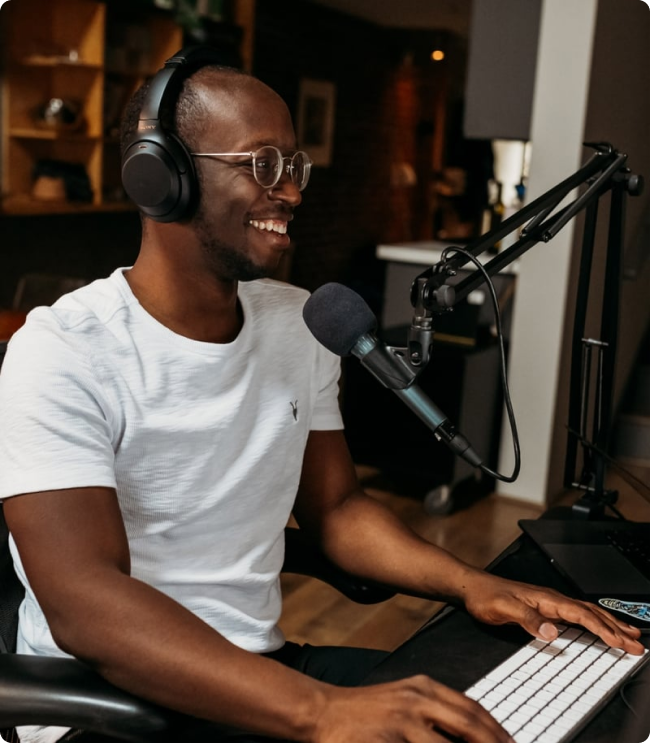
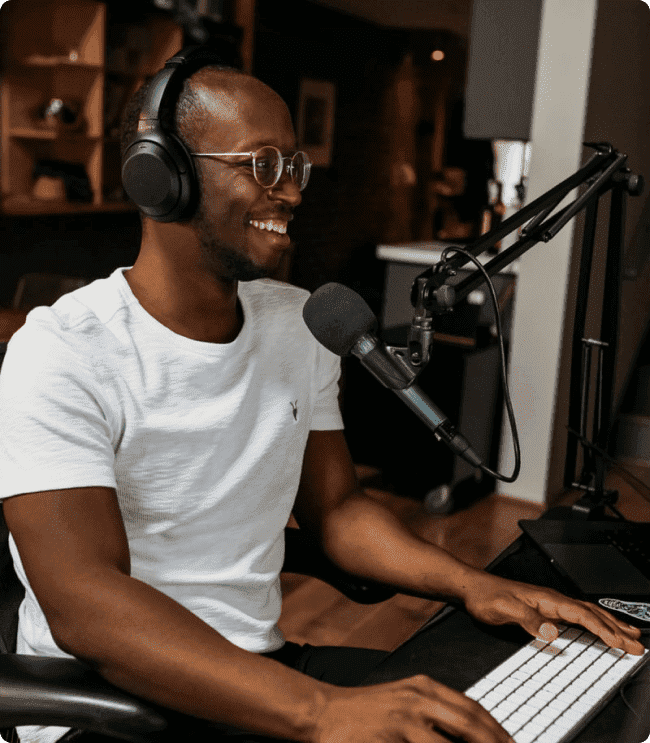
add eslint code style rules, optimize pictures, improve page load speed

diff --git a/src/components/CommentForm/Inputs/Inputs.jsx b/src/components/CommentForm/Inputs/Inputs.jsx
@@ -1,13 +1,13 @@
 import React, {useContext} from 'react'
 // UI components
-import Button from "../../UI/Button/Button"
+import Button from '../../UI/Button/Button'
 // React hook form and yup validation
-import {useForm} from "react-hook-form"
-import {yupResolver} from "@hookform/resolvers/yup"
-import * as yup from "yup"
+import {useForm} from 'react-hook-form'
+import {yupResolver} from '@hookform/resolvers/yup'
+import * as yup from 'yup'
 // Context
-import {StarsContext} from "../../../Helper/Contexts/StarsContext"
-import {CommentsContext} from "../../../Helper/Contexts/CommentsContext"
+import {StarsContext} from '../../../Helper/Contexts/StarsContext'
+import {CommentsContext} from '../../../Helper/Contexts/CommentsContext'
 // Styles
 import './Inputs-styles.scss'
 
@@ -47,7 +47,7 @@ const Inputs = () => {
                 type="number"
                 id={'comment-form__num-inp'}
                 defaultValue={0}
-                style={{opacity: '0', position: "absolute", left: '-100%'}}
+                style={{opacity: '0', position: 'absolute', left: '-100%'}}
             />
             <p className={'comment-form__error2'}>Please rate 1-5 stars</p>
 

diff --git a/src/components/Comments/Comments.jsx b/src/components/Comments/Comments.jsx
@@ -1,13 +1,13 @@
-import React, {useEffect, useContext} from 'react'
+import React, {useContext, useEffect} from 'react'
 // Styles
 import './Comments-styles.scss'
 // Libraries
 import axios from 'axios'
 import {v4 as uuid} from 'uuid'
 // Child components
-import CommentsItem from "./Comments-item"
+import CommentsItem from './Comments-item'
 // Context
-import {CommentsContext} from "../../Helper/Contexts/CommentsContext"
+import {CommentsContext} from '../../Helper/Contexts/CommentsContext'
 
 const Comments = () => {
 
@@ -27,6 +27,7 @@ const Comments = () => {
 
         getComments('https://jsonplaceholder.typicode.com/comments')
             .then(() => console.log('request for comments sent'))
+        // eslint-disable-next-line
     }, [])
 
     // let reverseArray = comments.map((value, index, array) => array[array.length - 1 - index])

diff --git a/src/App.js b/src/App.js
@@ -2,13 +2,13 @@ import React from 'react'
 // Styles
 import './styles/App.scss'
 // Components
-import Header from "./components/Header/Header"
-import Hero from "./components/Hero/Hero"
-import Posts from "./components/Posts/Posts"
-import Bio from "./components/Bio/Bio"
-import Form from "./components/Form/Form"
-import CommentsGeneral from "./components/CommentsGeneral/CommentsGeneral"
-import Footer from "./components/Footer/Footer"
+import Header from './components/Header/Header'
+import Hero from './components/Hero/Hero'
+import Posts from './components/Posts/Posts'
+import Bio from './components/Bio/Bio'
+import Form from './components/Form/Form'
+import CommentsGeneral from './components/CommentsGeneral/CommentsGeneral'
+import Footer from './components/Footer/Footer'
 
 function App() {
 

diff --git a/src/components/Posts/Post-item.jsx b/src/components/Posts/Post-item.jsx
@@ -2,7 +2,7 @@ import React from 'react'
 // Styles
 import './Post-item-styles.scss'
 // UI components
-import Button from "../UI/Button/Button"
+import Button from '../UI/Button/Button'
 
 const PostItem = ({props}) => {
 
@@ -10,14 +10,14 @@ const PostItem = ({props}) => {
     if ([...props.title].length > 34) {
         let newTitle = [...props.title]
         newTitle.length = 34
-        props.title = newTitle.join("")
+        props.title = newTitle.join('')
     }
 
     // Shorten the post body received from API to 150 chars
     if ([...props.body].length > 150) {
         let newBody = [...props.body]
         newBody.length = 150
-        props.body = newBody.join("")
+        props.body = newBody.join('')
     }
 
     return (

diff --git a/src/components/Posts/Posts.jsx b/src/components/Posts/Posts.jsx
@@ -2,15 +2,15 @@ import React, {useEffect, useState} from 'react'
 // Styles
 import './Posts-styles.scss'
 // Libraries
-import axios from "axios"
+import axios from 'axios'
 import {v4 as uuid} from 'uuid'
-import {useForm} from "react-hook-form"
-import {yupResolver} from "@hookform/resolvers/yup"
+import {useForm} from 'react-hook-form'
+import {yupResolver} from '@hookform/resolvers/yup'
 import * as yup from 'yup'
 // Children components
 import PostItem from './Post-item'
 // UI components
-import Button from "../UI/Button/Button"
+import Button from '../UI/Button/Button'
 
 const schema = yup.object().shape({
     title: yup.string().min(10).max(34).required(),

diff --git a/src/components/CommentsGeneral/CommentsGeneral.jsx b/src/components/CommentsGeneral/CommentsGeneral.jsx
@@ -1,9 +1,9 @@
 import React, {useState} from 'react'
 // Child components
-import Comments from "../Comments/Comments"
-import CommentForm from "../CommentForm/CommentForm"
+import Comments from '../Comments/Comments'
+import CommentForm from '../CommentForm/CommentForm'
 // Contexts
-import {CommentsContext} from "../../Helper/Contexts/CommentsContext"
+import {CommentsContext} from '../../Helper/Contexts/CommentsContext'
 
 
 const CommentsGeneral = () => {

diff --git a/src/components/Form/Form.jsx b/src/components/Form/Form.jsx
@@ -2,12 +2,12 @@ import React from 'react'
 // Styles
 import './Form-styles.scss'
 // UI components
-import Button from "../UI/Button/Button"
+import Button from '../UI/Button/Button'
 // Libraries
 import axios from 'axios'
 import {useForm} from 'react-hook-form'
 import * as yup from 'yup'
-import {yupResolver} from "@hookform/resolvers/yup"
+import {yupResolver} from '@hookform/resolvers/yup'
 // Assets
 import sparks from '../../Assets/sparks2.svg'
 

diff --git a/src/components/CommentForm/CommentForm.jsx b/src/components/CommentForm/CommentForm.jsx
@@ -2,10 +2,10 @@ import React, {useState} from 'react'
 // Styles
 import './CommentForm-styles.scss'
 // Child components
-import Stars from "./Stars/Stars"
-import Inputs from "./Inputs/Inputs"
+import Stars from './Stars/Stars'
+import Inputs from './Inputs/Inputs'
 // Context
-import {StarsContext} from "../../Helper/Contexts/StarsContext"
+import {StarsContext} from '../../Helper/Contexts/StarsContext'
 
 const CommentForm = () => {
 

diff --git a/src/components/CommentForm/Stars/EventHandlers.js b/src/components/CommentForm/Stars/EventHandlers.js
@@ -1,7 +1,7 @@
 // Assets
-import middleStar from "../../../Assets/middleStar.svg"
-import grayStar from "../../../Assets/star-gray.svg"
-import star from "../../../Assets/star.svg"
+import middleStar from '../../../Assets/middleStar.svg'
+import grayStar from '../../../Assets/star-gray.svg'
+import star from '../../../Assets/star.svg'
 
 export function hoverHandler(e) {
     // Defining stars for set rating for the new comment

diff --git a/src/index.js b/src/index.js
@@ -1,10 +1,10 @@
-import React from 'react';
-import ReactDOM from 'react-dom/client';
-import App from './App';
+import React from 'react'
+import ReactDOM from 'react-dom/client'
+import App from './App'
 
-const root = ReactDOM.createRoot(document.getElementById('root'));
+const root = ReactDOM.createRoot(document.getElementById('root'))
 root.render(
   <React.StrictMode>
     <App />
   </React.StrictMode>
-);
+)

diff --git a/src/components/CommentForm/Stars/Stars.jsx b/src/components/CommentForm/Stars/Stars.jsx
@@ -5,7 +5,7 @@ import './Stars-styles.scss'
 import {clickHandler, hoverHandler} from './EventHandlers'
 import {v4 as uuid} from 'uuid'
 // Assets
-import grayStar from "../../../Assets/star-gray.svg"
+import grayStar from '../../../Assets/star-gray.svg'
 // Context
 import {StarsContext} from '../../../Helper/Contexts/StarsContext'
 

diff --git a/src/components/Comments/Comments-item.jsx b/src/components/Comments/Comments-item.jsx
@@ -24,7 +24,7 @@ const CommentsItem = ({data}) => {
     if ([...data.body].length > 100) {
         let newBody = [...data.body]
         newBody.length = 100
-        data.body = newBody.join("")
+        data.body = newBody.join('')
     }
 
     return (
